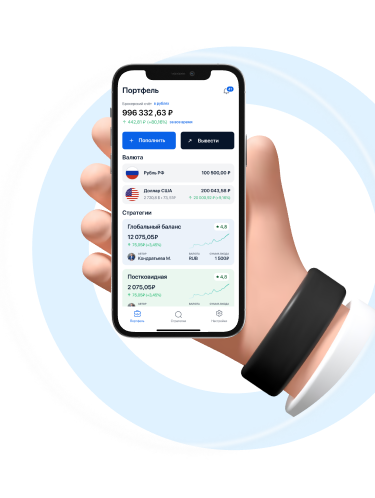
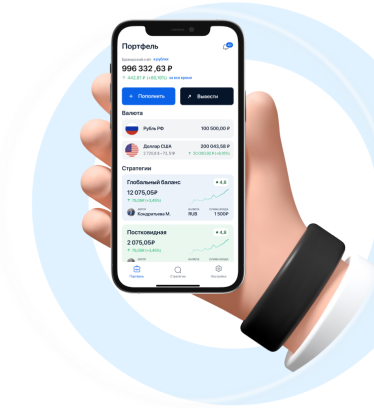
feat: correct acording pixel perfect

diff --git a/css/style.css b/css/style.css
@@ -106,6 +106,14 @@ html {
   overflow-wrap: break-word;
 
   cursor: pointer;
+
+  border-radius: 8px;
+
+  font-size: 18px;
+  line-height: 25px;
+
+  --button-horizontal-padding: 34px;
+  --button-vertical-padding: 14px;
 }
 
 .button:hover {
@@ -116,23 +124,12 @@ html {
   opacity: 0.3;
 }
 
-@media (min-width: 375px) {
-  .button {
-    border-radius: 8px;
-
-    font-size: 18px;
-    line-height: 25px;
-
-    --button-horizontal-padding: 34px;
-    --button-vertical-padding: 14px;
-  }
-}
-
 @media (min-width: 1100px) {
   .button {
     border-radius: 12px;
 
-    --button-vertical-padding: 20px;
+    --button-horizontal-padding: 20px;
+    --button-vertical-padding: 15px;
   }
 }
 
@@ -172,13 +169,16 @@ html {
   .desktop_brakes {
     display: inline;
   }
+
+  .mobile_brakes {
+    display: none;
+  }
 }
 
 /* ==========> ABOUT SECTION <============== */
 .about__wrapper {
   display: flex;
   background-color: var(--special_blue);
-
 }
 
 .about {
@@ -191,7 +191,7 @@ html {
 
 @media (min-width: 1100px) {
   .about {
-    height: 671px;
+    height: 673px;
     width: var(--desk_size);
 
     padding-bottom: 0;
@@ -200,8 +200,8 @@ html {
 
 .about__language {
   position: absolute;
-  top: 22px;
-  right: 14px;
+  top: 28px;
+  right: 1px;
 
   padding: 2px;
 
@@ -210,8 +210,8 @@ html {
 
 @media (min-width: 1100px) {
   .about__language {
-    top: 20px;
-    right: 9px;
+    top: 21px;
+    right: 35px;
   }
 }
 
@@ -248,9 +248,10 @@ input[type="radio"]:checked + .about__language_label::after {
 }
 
 .about__product {
-  padding: 48px 0 0 0;
-  margin: 0;
-  margin-bottom: 1px;
+  margin: 48px 0 1px;
+
+  height: 405px;
+  width: 375px;
 
   object-fit: cover;
 }
@@ -258,7 +259,7 @@ input[type="radio"]:checked + .about__language_label::after {
 @media (min-width: 1100px) {
   .about__product {
     position: absolute;
-    top: 59px;
+    top: 53px;
     right: 0;
 
     padding: 0;
@@ -271,6 +272,7 @@ input[type="radio"]:checked + .about__language_label::after {
 
 .about__brief {
   padding: 0 16px;
+  margin-bottom: 36px;
 }
 
 @media (min-width: 1100px) {
@@ -280,12 +282,13 @@ input[type="radio"]:checked + .about__language_label::after {
     left: var(--desk_gap);
 
     padding: 0;
+    margin: 0;
   }
 }
 
 .about__brief_link {
   display: block;
-  margin-bottom: 12px;
+  margin-bottom: 6px;
 }
 
 .about__brief_details {
@@ -299,16 +302,16 @@ input[type="radio"]:checked + .about__language_label::after {
 
 @media (min-width: 1100px) {
   .about__brief_link {
-    margin-bottom: 11px;
+    margin-bottom: 6px;
   }
 
   .about__brief_logo {
-    width: 214px;
-    height: 80px;
+    width: 217px;
+    height: 81px;
   }
 
   .about__brief_details {
-    margin-bottom: 38px;
+    margin-bottom: 36px;
     width: 384px;
 
     font-size: 22px;
@@ -316,13 +319,12 @@ input[type="radio"]:checked + .about__language_label::after {
   }
 }
 
-.about__button {
+.about__brief_button {
   width: 100%;
-  margin-bottom: 32px;
 }
 
 @media (min-width: 1100px) {
-  .about__button {
+  .about__brief_button {
     width: 199px;
   }
 }
@@ -344,7 +346,7 @@ input[type="radio"]:checked + .about__language_label::after {
   .about__advantages {
     position: absolute;
     bottom: -35px;
-    left: 0;
+    left: -4px;
 
     column-gap: 20px;
 
@@ -400,6 +402,11 @@ input[type="radio"]:checked + .about__language_label::after {
 @media (min-width: 1100px) {
   .advantage_item {
     width: 241px;
+    padding: 22px 10px 20px 20px;
+
+    font-size: 16px;
+    line-height: 22px;
+    letter-spacing: 0.5px;
   }
 
   .advantage_item::before,
@@ -439,7 +446,7 @@ input[type="radio"]:checked + .about__language_label::after {
 
 .products {
   padding: 0 16px;
-  margin-bottom: 40px;
+  margin-bottom: 38px;
 }
 
 .products__title {
@@ -449,7 +456,7 @@ input[type="radio"]:checked + .about__language_label::after {
 @media (min-width: 1100px) {
   .products {
     padding: 0;
-    margin-bottom: 114px;
+    margin-bottom: 100px;
   }
 
   .products__title {
@@ -496,7 +503,8 @@ input[type="radio"]:checked + .about__language_label::after {
   }
 
   .products__item {
-    padding: 37px 33px 0 30px;
+    /* padding: 37px 33px 0 30px; */
+    padding: 41px 37px 0 15px;
     height: 328px;
 
     grid-template-columns: 210px 218px;
@@ -559,6 +567,7 @@ input[type="radio"]:checked + .about__language_label::after {
 
 @media (min-width: 1100px) {
   .benefits {
+    padding: 0;
     padding-bottom: 40px;
 
     display: grid;
@@ -575,19 +584,20 @@ input[type="radio"]:checked + .about__language_label::after {
 
 .benefits__title {
   margin: 0;
-  margin-bottom: 4px;
+  margin-bottom: 24px;
 
   font-weight: 400;
 }
 
 .benefits__content {
   text-align: center;
+  margin: 0;
   margin-bottom: 12px;
 }
 
 .benefits__button {
   width: 100%;
-  margin-bottom: 32px;
+  margin-bottom: 36px;
 }
 
 @media (min-width: 1100px) {
@@ -644,14 +654,14 @@ input[type="radio"]:checked + .about__language_label::after {
     padding: 0;
 
     grid-area: data;
-    gap: 21px 19px;
+    gap: 21px 8px;
   }
 
   .benefits__item {
-    width: 231px;
+    width: 241px;
     min-height: 140px;
 
-    padding: 63px 10px 20px 25px;
+    padding: 70px 10px 20px 25px;
     box-shadow: none;
   }
 }
@@ -699,14 +709,12 @@ input[type="radio"]:checked + .about__language_label::after {
 
 .benefits__item-text {
   margin: 0;
-
-  width: 136px;
-  min-height: 80px;
+  min-height: 60px;
 }
 
 @media (min-width: 1100px) {
   .benefits__item::before {
-    top: 10px;
+    top: 15px;
     left: 19px;
 
     width: 52px;
@@ -714,8 +722,8 @@ input[type="radio"]:checked + .about__language_label::after {
   }
 
   .benefits__item::after {
-    top: 15px;
-    left: 26px;
+    top: 21px;
+    left: 25px;
 
     width: 40px;
     height: 40px;

diff --git a/index.html b/index.html
@@ -41,7 +41,7 @@
           </a>
           <p class="about__brief_details">Гибкая мобильная платформа <br class="desktop_brakes">для быстрой реализации инвестиционных сервисов.</p>
 
-          <button class="about__button button" type="button">Заказать демо</button>
+          <button class="about__brief_button button" type="button">Заказать демо</button>
         </div>
 
         <ul class="about__advantages advantage">
@@ -117,11 +117,11 @@
 
         <ul class="benefits__list">
           <li class="benefits__item">
-            <p class="benefits__item-text text_limit">Эĸономим время и деньги на запусĸ digital сервисов</p>
+            <p class="benefits__item-text text_limit">Эĸономим время <br class="mobile_brakes">и деньги на запусĸ digital сервисов</p>
           </li>
 
           <li class="benefits__item">
-            <p class="benefits__item-text text_limit">Создаем канал привлечения новых клиентов</p>
+            <p class="benefits__item-text text_limit">Создаем канал привлечения <br class="mobile_brakes">новых клиентов</p>
           </li>
 
           <li class="benefits__item">
